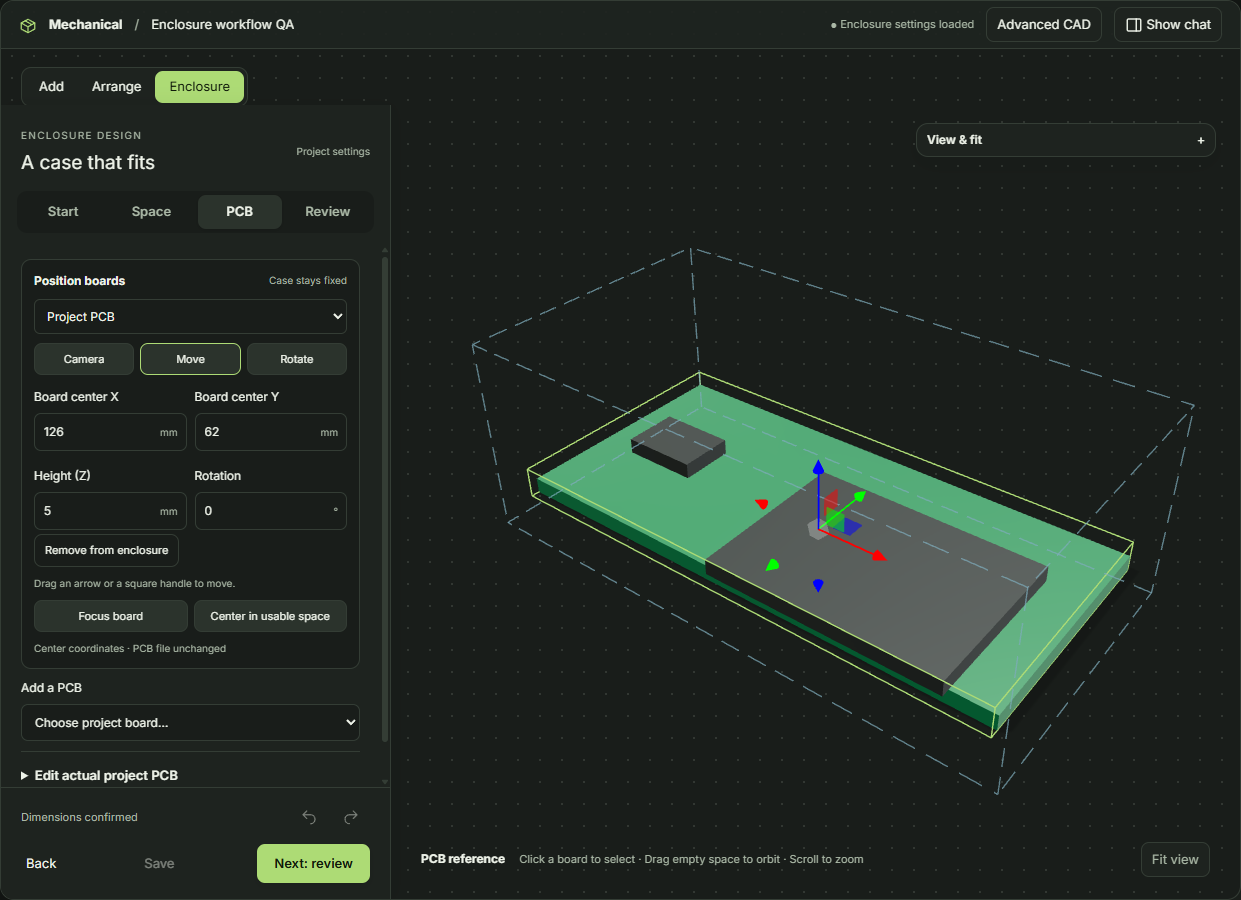
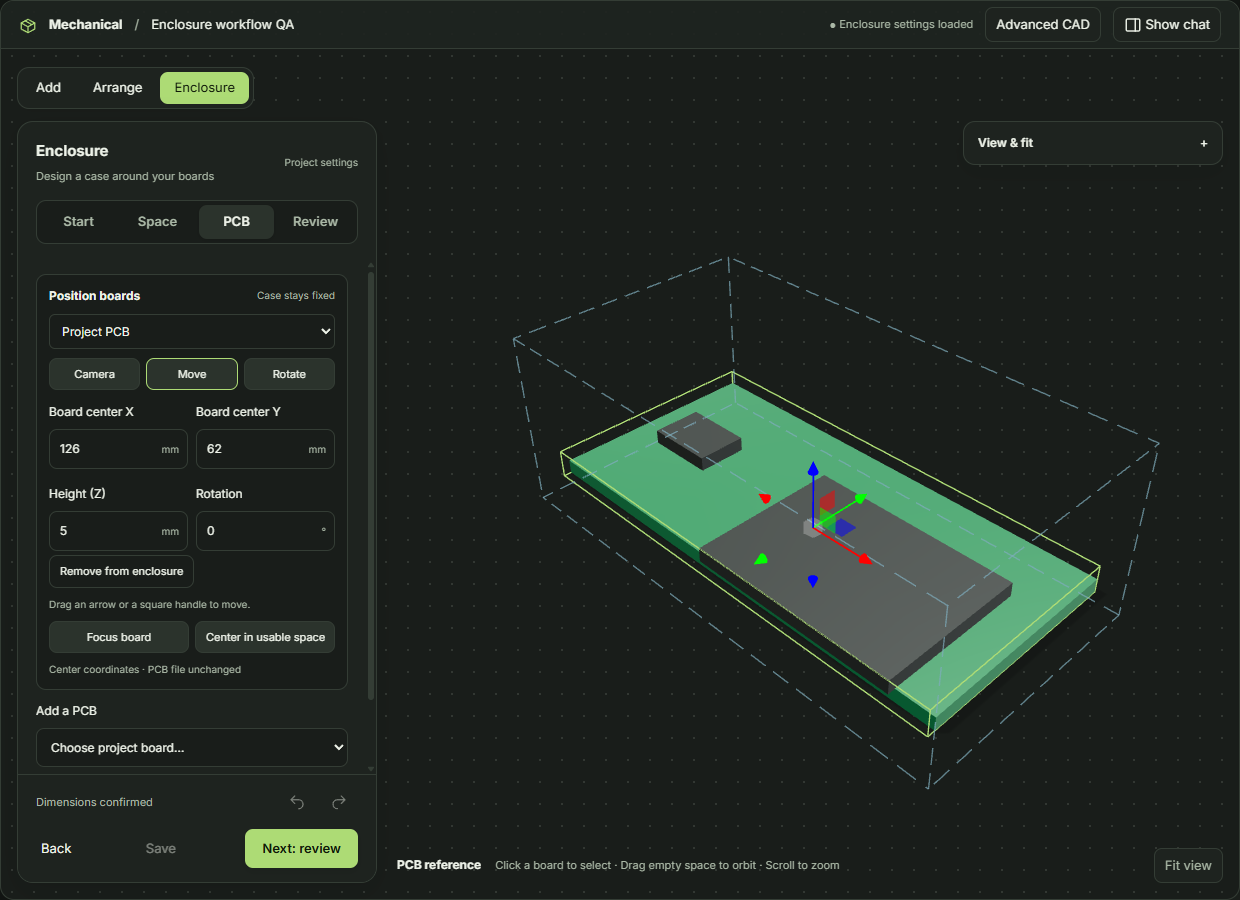
Match enclosure inspector to the mechanical workspace cards

diff --git a/packages/ui/src/board/mechanical/mechanical.css b/packages/ui/src/board/mechanical/mechanical.css
@@ -16,12 +16,13 @@
   font-size: 12px;
 }
 .fd-case-workflow {
+  --case-inspector-width: 360px;
   position: absolute;
-  inset: 104px 0 0;
+  inset: 120px 16px 16px;
   z-index: 4;
   background: transparent;
   display: grid;
-  grid-template-columns: minmax(310px, 390px) 1fr;
+  grid-template-columns: var(--case-inspector-width) minmax(0, 1fr);
 }
 .fd-case-workflow[hidden] {
   display: none;
@@ -52,12 +53,12 @@
 }
 .fd-case-canvas {
   position: absolute;
-  inset: 0 0 64px 390px;
+  inset: 0 0 56px calc(var(--case-inspector-width) + 20px);
   background: transparent;
 }
 @container (min-width: 1290px) {
   .fd-case-workflow[data-controls-expanded="true"] .fd-case-canvas {
-    right: 340px;
+    right: 280px;
   }
 }
 .fd-case-canvas canvas {
@@ -68,38 +69,44 @@
   min-height: 0;
   display: flex;
   flex-direction: column;
-  background: var(--fd-panel);
-  border-right: 1px solid var(--fd-border);
-  box-shadow: 4px 0 20px #0001;
+  align-self: start;
+  max-height: 100%;
+  padding: 0;
+  overflow: hidden;
 }
 .fd-case-panel header {
   display: flex;
   align-items: center;
   justify-content: space-between;
-  padding: 20px 20px 14px;
+  padding: 18px 18px 16px;
   gap: 12px;
 }
-.fd-case-eyebrow {
-  color: var(--fd-muted);
-  font-size: 10px;
-  letter-spacing: 1.3px;
-}
 .fd-case-panel h2 {
-  margin: 4px 0 0;
-  font-size: 19px;
+  margin: 0;
+  font-size: 15px;
+  font-weight: 650;
+}
+.fd-case-panel header p {
+  margin: 5px 0 0;
+  font-size: 11px;
+  line-height: 1.5;
+  color: var(--fd-muted);
 }
 .fd-case-panel header small {
   color: var(--fd-muted);
   font-size: 10px;
   text-align: right;
+  white-space: nowrap;
+  line-height: 1.5;
 }
 .fd-case-panel nav {
   display: flex;
   gap: 4px;
-  margin: 0 16px 12px;
+  margin: 0 18px 16px;
   padding: 4px;
   border-radius: 10px;
   background: var(--fd-bg);
+  border: 1px solid var(--fd-border);
 }
 .fd-case-panel nav button {
   flex: 1;
@@ -117,7 +124,10 @@
   flex: 1;
   min-height: 0;
   overflow: auto;
-  padding: 0 20px 24px;
+  padding: 0 18px 20px;
+  overscroll-behavior: contain;
+  scrollbar-width: thin;
+  scrollbar-color: var(--fd-border) transparent;
 }
 .fd-case-fields {
   border: 0;
@@ -134,8 +144,11 @@
   border-color: var(--fd-danger, #f2857e);
 }
 .fd-case-fields h3 {
-  margin: 16px 0 8px;
+  margin: 24px 0 8px;
   font-size: 14px;
+}
+.fd-case-fields > h3:first-child {
+  margin-top: 0;
 }
 .fd-case-fields p {
   color: var(--fd-muted);
@@ -146,8 +159,8 @@
 .fd-case-fields label {
   display: flex;
   flex-direction: column;
-  gap: 7px;
-  margin: 10px 0;
+  gap: 8px;
+  margin: 12px 0;
   font-size: 12px;
 }
 .fd-case-fields input:not([type="checkbox"]),
@@ -157,8 +170,8 @@
   background: var(--fd-bg);
   border: 1px solid var(--fd-border);
   color: var(--fd-fg);
-  border-radius: 7px;
-  padding: 9px;
+  border-radius: 8px;
+  padding: 10px;
   font: inherit;
 }
 .fd-case-choices {
@@ -167,8 +180,8 @@
   gap: 8px;
   margin: 16px 0 24px;
 }
-.fd-case-choices button {
-  padding: 14px 10px;
+.fd-case-fields .fd-case-choices button {
+  padding: 14px 12px;
   display: flex;
   flex-direction: column;
   gap: 7px;
@@ -178,13 +191,14 @@
   white-space: normal;
   text-align: left;
 }
-.fd-case-choices button[aria-pressed="true"] {
+.fd-case-workflow .fd-case-choices button[aria-pressed="true"] {
   color: var(--fd-fg);
   border-color: var(--fd-accent);
   background: color-mix(in srgb, var(--fd-accent) 12%, var(--fd-panel));
 }
 .fd-case-choices small {
-  font-size: 10px;
+  font-size: 11px;
+  line-height: 1.5;
   font-weight: 400;
   opacity: 0.8;
 }
@@ -245,8 +259,9 @@
 }
 .fd-case-panel footer {
   border-top: 1px solid var(--fd-border);
-  padding: 12px 20px 16px;
+  padding: 10px 18px 14px;
   background: var(--fd-panel);
+  flex-shrink: 0;
 }
 .fd-case-footer-status > span {
   flex: 1;
@@ -576,10 +591,10 @@
 }
 .fd-case-hud {
   position: absolute;
-  top: 18px;
-  right: 24px;
-  width: 300px;
-  max-width: calc(100% - 420px);
+  top: 0;
+  right: 0;
+  width: 260px;
+  max-width: calc(100% - var(--case-inspector-width) - 20px);
   max-height: calc(100% - 100px);
   display: flex;
   flex-direction: column;
@@ -591,14 +606,14 @@
   overflow: hidden;
   pointer-events: auto;
 }
-.fd-case-controls-toggle {
+.fd-case-hud .fd-case-controls-toggle {
   display: flex;
   align-items: center;
   justify-content: space-between;
   gap: 12px;
   flex-shrink: 0;
   width: 100%;
-  padding: 13px 14px;
+  padding: 12px 14px;
   border: 0;
   border-radius: 0;
   background: transparent;
@@ -763,8 +778,8 @@
 }
 @container (max-width: 800px) {
   .fd-case-hud {
-    max-width: calc(100% - 340px);
-    right: 12px;
+    max-width: calc(100% - var(--case-inspector-width) - 20px);
+    right: 0;
   }
   .fd-case-view-tools {
     max-width: calc(100% - 340px);
@@ -826,9 +841,9 @@
 }
 .fd-case-canvas-note {
   position: absolute;
-  left: 420px;
-  right: 30px;
-  bottom: 22px;
+  left: calc(var(--case-inspector-width) + 20px);
+  right: 0;
+  bottom: 0;
   display: flex;
   align-items: center;
   gap: 14px;
@@ -850,14 +865,9 @@
 }
 @container (max-width:800px) {
   .fd-case-workflow {
-    grid-template-columns: 310px 1fr;
-  }
-  .fd-case-canvas {
-    left: 310px;
+    --case-inspector-width: 300px;
   }
   .fd-case-canvas-note {
-    left: 325px;
-    right: 10px;
     align-items: center;
     gap: 8px;
   }
@@ -970,8 +980,8 @@
 .fd-mechanical-top {
   position: absolute;
   top: 66px;
-  left: 20px;
-  right: 20px;
+  left: 16px;
+  right: 16px;
   display: flex;
   justify-content: space-between;
   pointer-events: none;
@@ -980,9 +990,11 @@
   pointer-events: auto;
 }
 .fd-mechanical-segment {
-  padding: 3px;
+  display: flex;
+  gap: 4px;
+  padding: 4px;
   border: 1px solid var(--fd-border);
-  border-radius: 10px;
+  border-radius: 12px;
   background: var(--fd-panel);
   box-shadow: 0 3px 12px #00000009;
 }
@@ -995,7 +1007,8 @@
   border: 1px solid color-mix(in srgb, var(--fd-warning) 22%, transparent);
   font-size: 11px;
 }
-.fd-mechanical-card {
+.fd-mechanical-card,
+.fd-case-panel {
   background: color-mix(in srgb, var(--fd-panel) 96%, transparent);
   border: 1px solid var(--fd-border);
   border-radius: 16px;
@@ -1003,6 +1016,8 @@
     0 10px 36px #00000012,
     0 2px 8px #0000000a;
   backdrop-filter: blur(14px);
+}
+.fd-mechanical-card {
   padding: 18px;
 }
 .fd-mechanical-card h2 {
@@ -1882,6 +1897,9 @@
   }
 }
 @container (max-width: 750px) {
+  .fd-case-workflow {
+    inset: 120px 10px 10px;
+  }
   .fd-mechanical-header {
     padding: 0 10px;
   }

diff --git a/packages/ui/src/board/mechanical/EnclosureDesigner.tsx b/packages/ui/src/board/mechanical/EnclosureDesigner.tsx
@@ -817,10 +817,10 @@ export function EnclosureDesigner({
       <aside className="fd-case-panel">
         <header>
           <div>
-            <span className="fd-case-eyebrow">ENCLOSURE DESIGN</span>
-            <h2>A case that fits</h2>
+            <h2>Enclosure</h2>
+            <p>Design a case around your boards</p>
           </div>
-          <small role="status">{dirty ? "Unsaved changes" : "Project settings"}</small>
+          <small role="status">{dirty ? "Unsaved" : "Project settings"}</small>
         </header>
         <nav aria-label="Enclosure workflow">
           {steps.map((s) => (
@@ -1674,6 +1674,7 @@ export function EnclosureDesigner({
                         setPreview(null);
                         setModelSources([]);
                         setArchive(null);
+                        setNotice("");
                       }}
                     >
                       Discard preview
